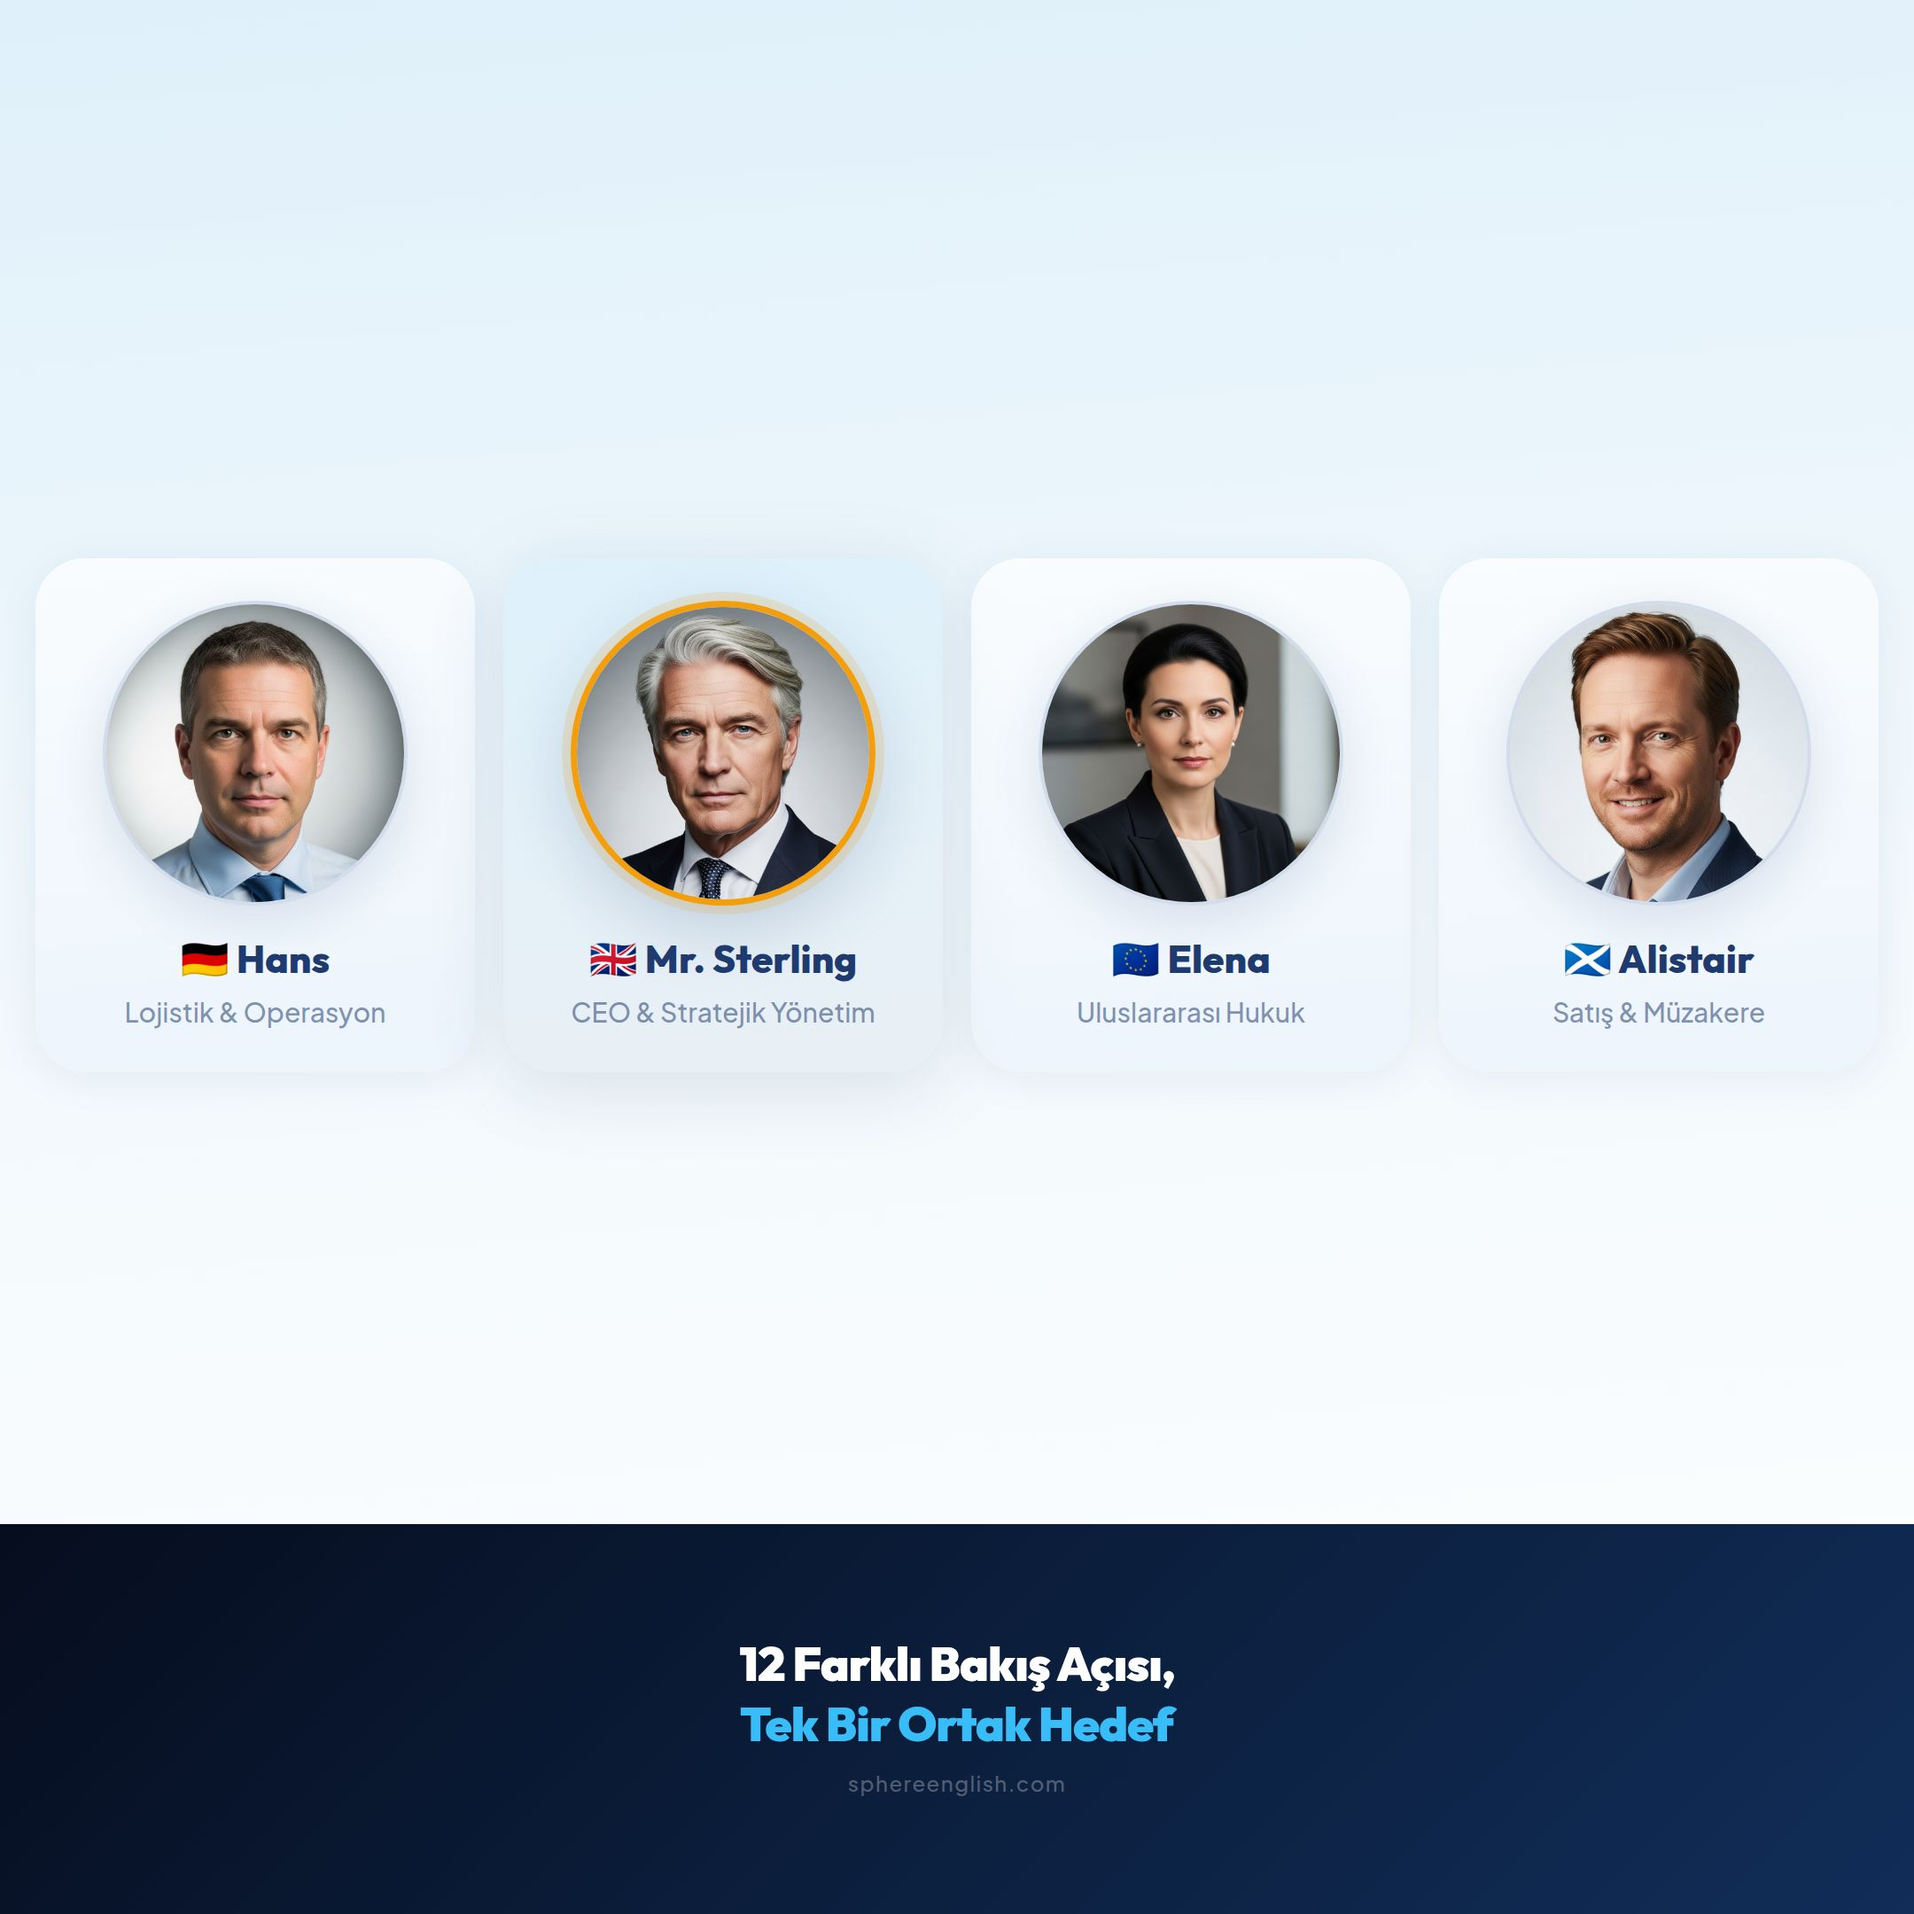
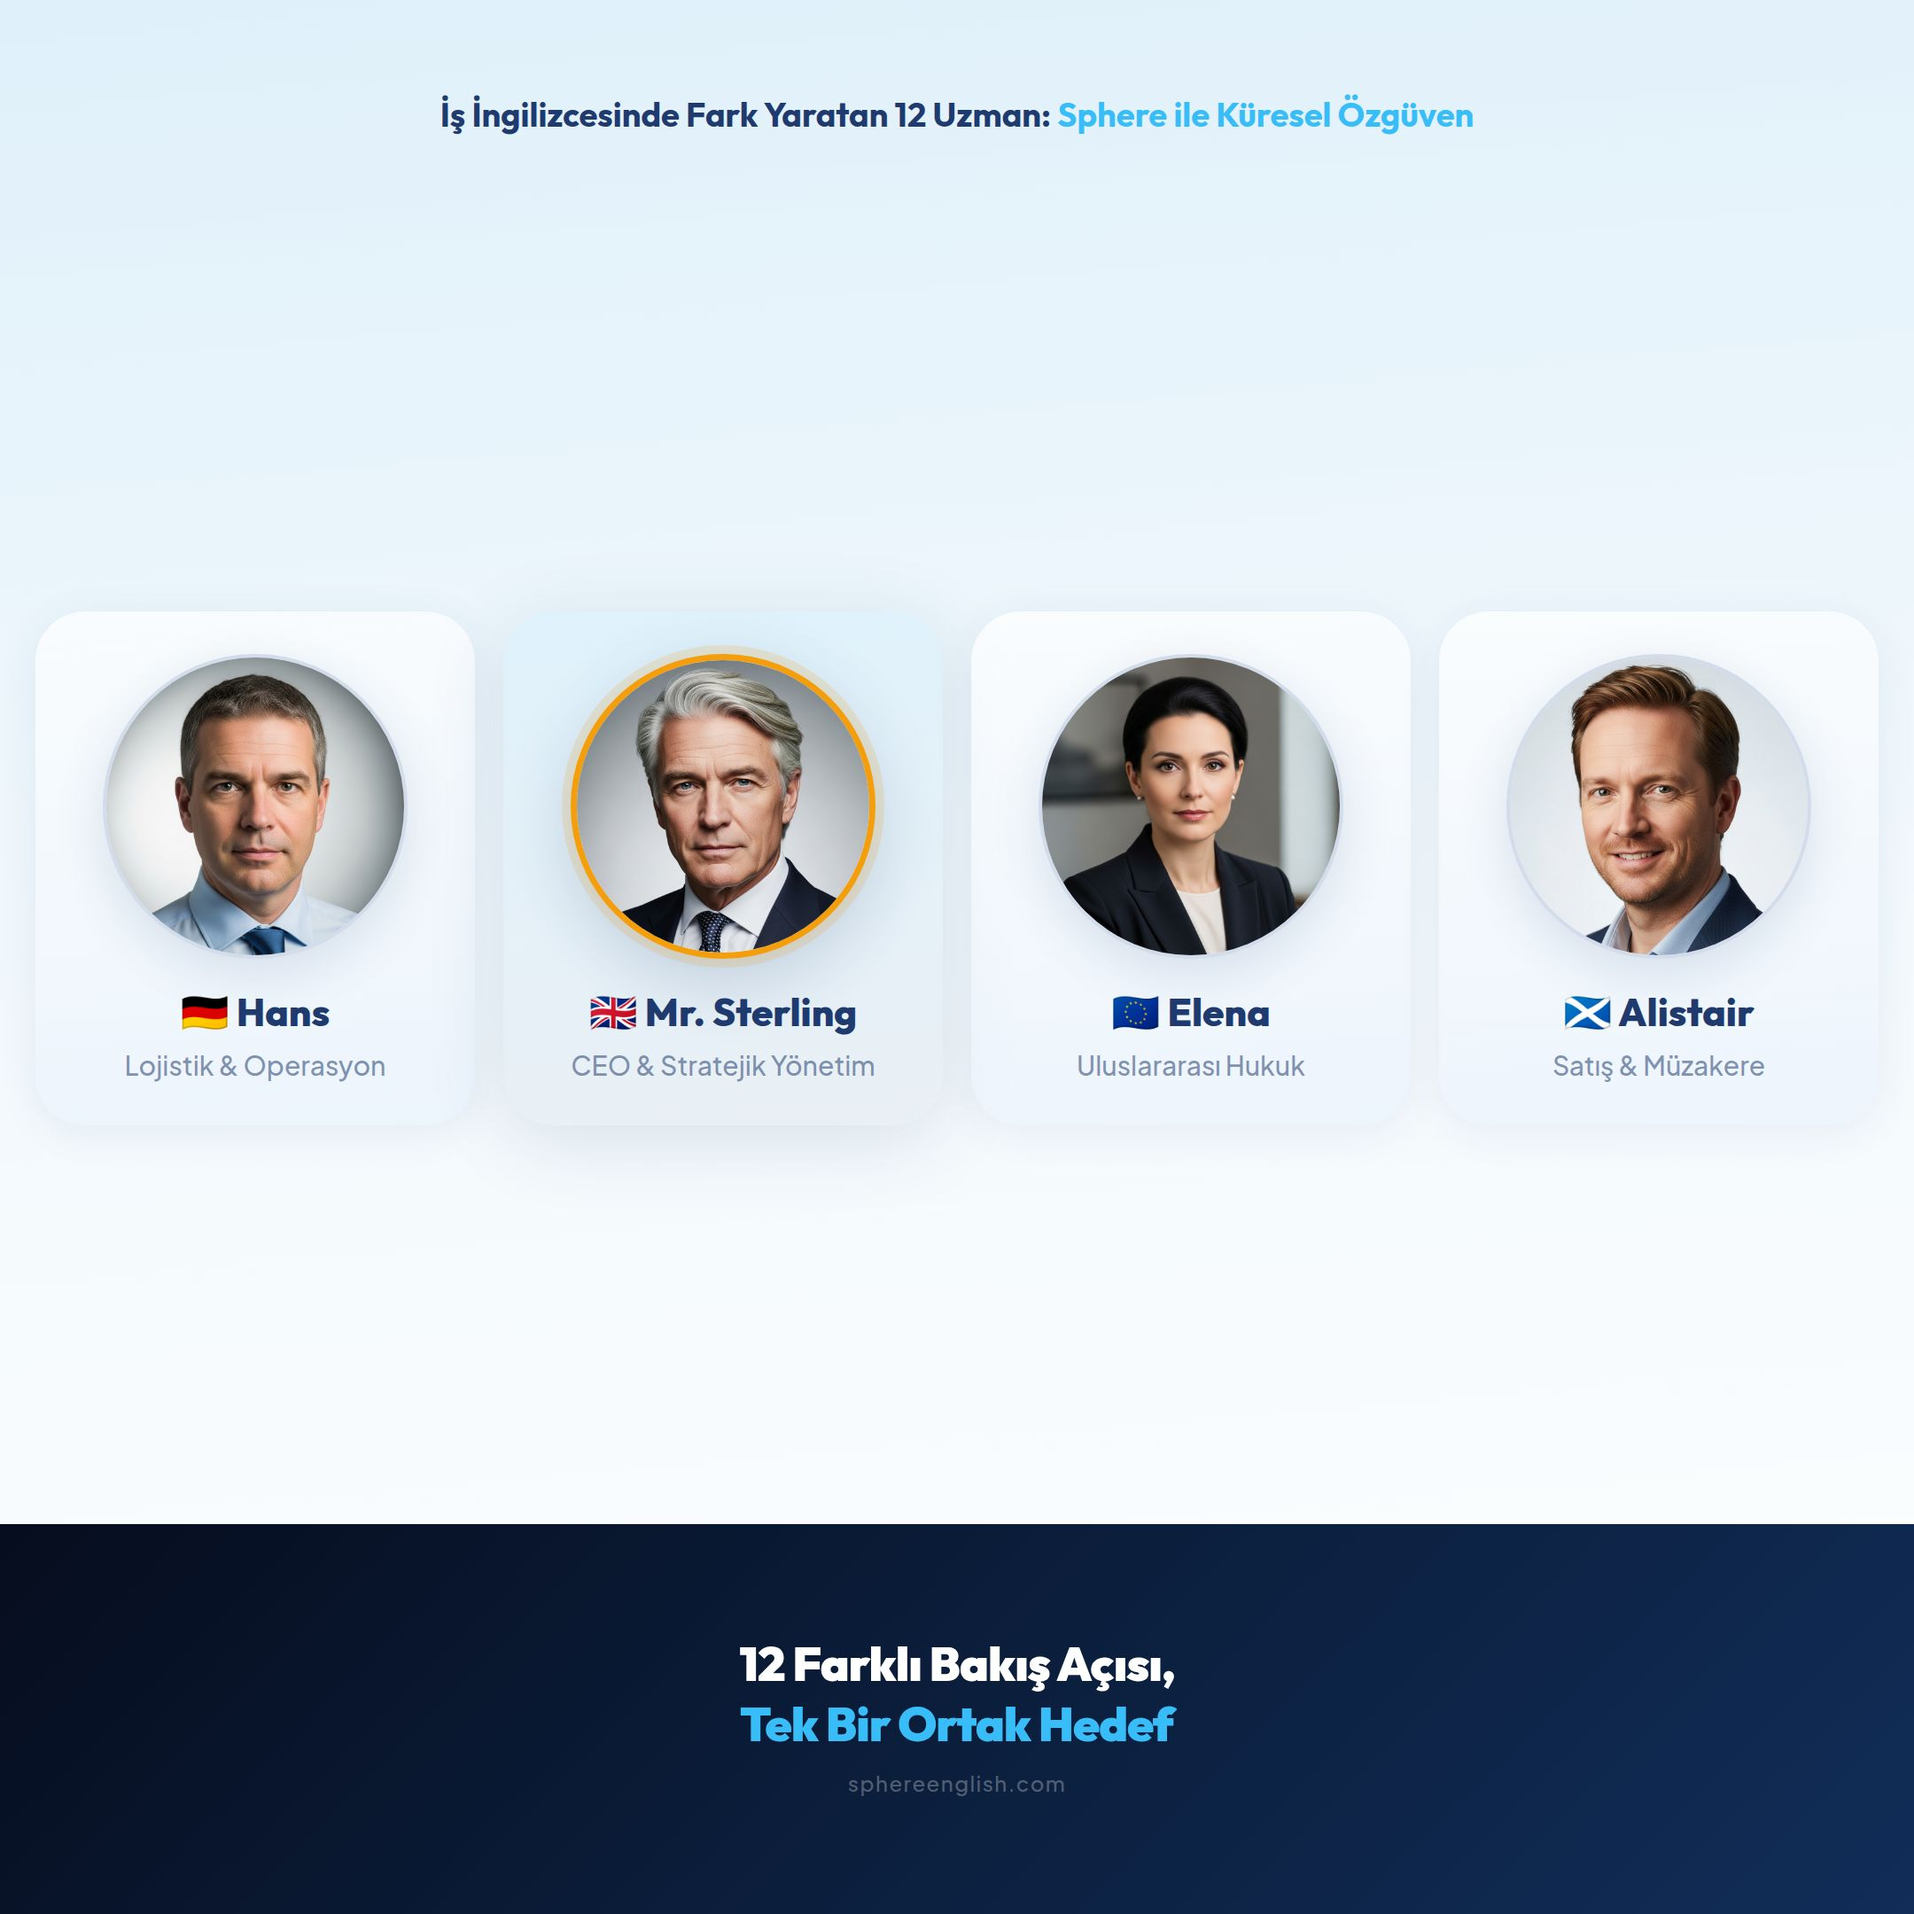
Add a centered title to the middle panel of the Instagram post
Adds a conditional heading to `TeamPost.tsx` for the middle panel (msgIdx 1), displaying a translated title above the coach cards.

Replit-Commit-Author: Agent
Replit-Commit-Session-Id: 7828208e-226c-43ef-9a3e-875997ce7956
Replit-Commit-Checkpoint-Type: full_checkpoint
Replit-Commit-Event-Id: 984b6dd2-fc71-407e-88fb-bfc1698b65dd
Replit-Commit-Screenshot-Url: https://storage.googleapis.com/screenshot-production-us-central1/f780e6cf-cd3b-477f-8b05-3e4b163e7069/7828208e-226c-43ef-9a3e-875997ce7956/NRljfQC
Replit-Helium-Checkpoint-Created: true

diff --git a/artifacts/mockup-sandbox/src/components/mockups/instagram-post/TeamPost.tsx b/artifacts/mockup-sandbox/src/components/mockups/instagram-post/TeamPost.tsx
@@ -49,6 +49,7 @@ const BOTTOM_MESSAGES = [
 
 const Panel = ({ coaches, msgIdx }: { coaches: Coach[]; msgIdx: number }) => {
   const msg = BOTTOM_MESSAGES[msgIdx];
+  const isMiddle = msgIdx === 1;
 
   return (
     <div style={{
@@ -64,10 +65,29 @@ const Panel = ({ coaches, msgIdx }: { coaches: Coach[]; msgIdx: number }) => {
         pointerEvents: "none",
       }} />
 
+      {/* Orta panel başlık metni */}
+      {isMiddle && (
+        <div style={{
+          position: "absolute",
+          top: px(52), left: px(24), right: px(24),
+          textAlign: "center",
+          lineHeight: 1.35,
+        }}>
+          <span style={{
+            fontSize: px(19), fontWeight: 700, color: PRIMARY,
+            fontFamily: '"Outfit", sans-serif',
+          }}>İş İngilizcesinde Fark Yaratan 12 Uzman: </span>
+          <span style={{
+            fontSize: px(19), fontWeight: 700, color: ACCENT,
+            fontFamily: '"Outfit", sans-serif',
+          }}>Sphere ile Küresel Özgüven</span>
+        </div>
+      )}
+
       {/* Koçlar */}
       <div style={{
         position: "absolute",
-        top: px(60), bottom: px(220),
+        top: isMiddle ? px(120) : px(60), bottom: px(220),
         left: px(20), right: px(20),
         display: "flex",
         alignItems: "center",
